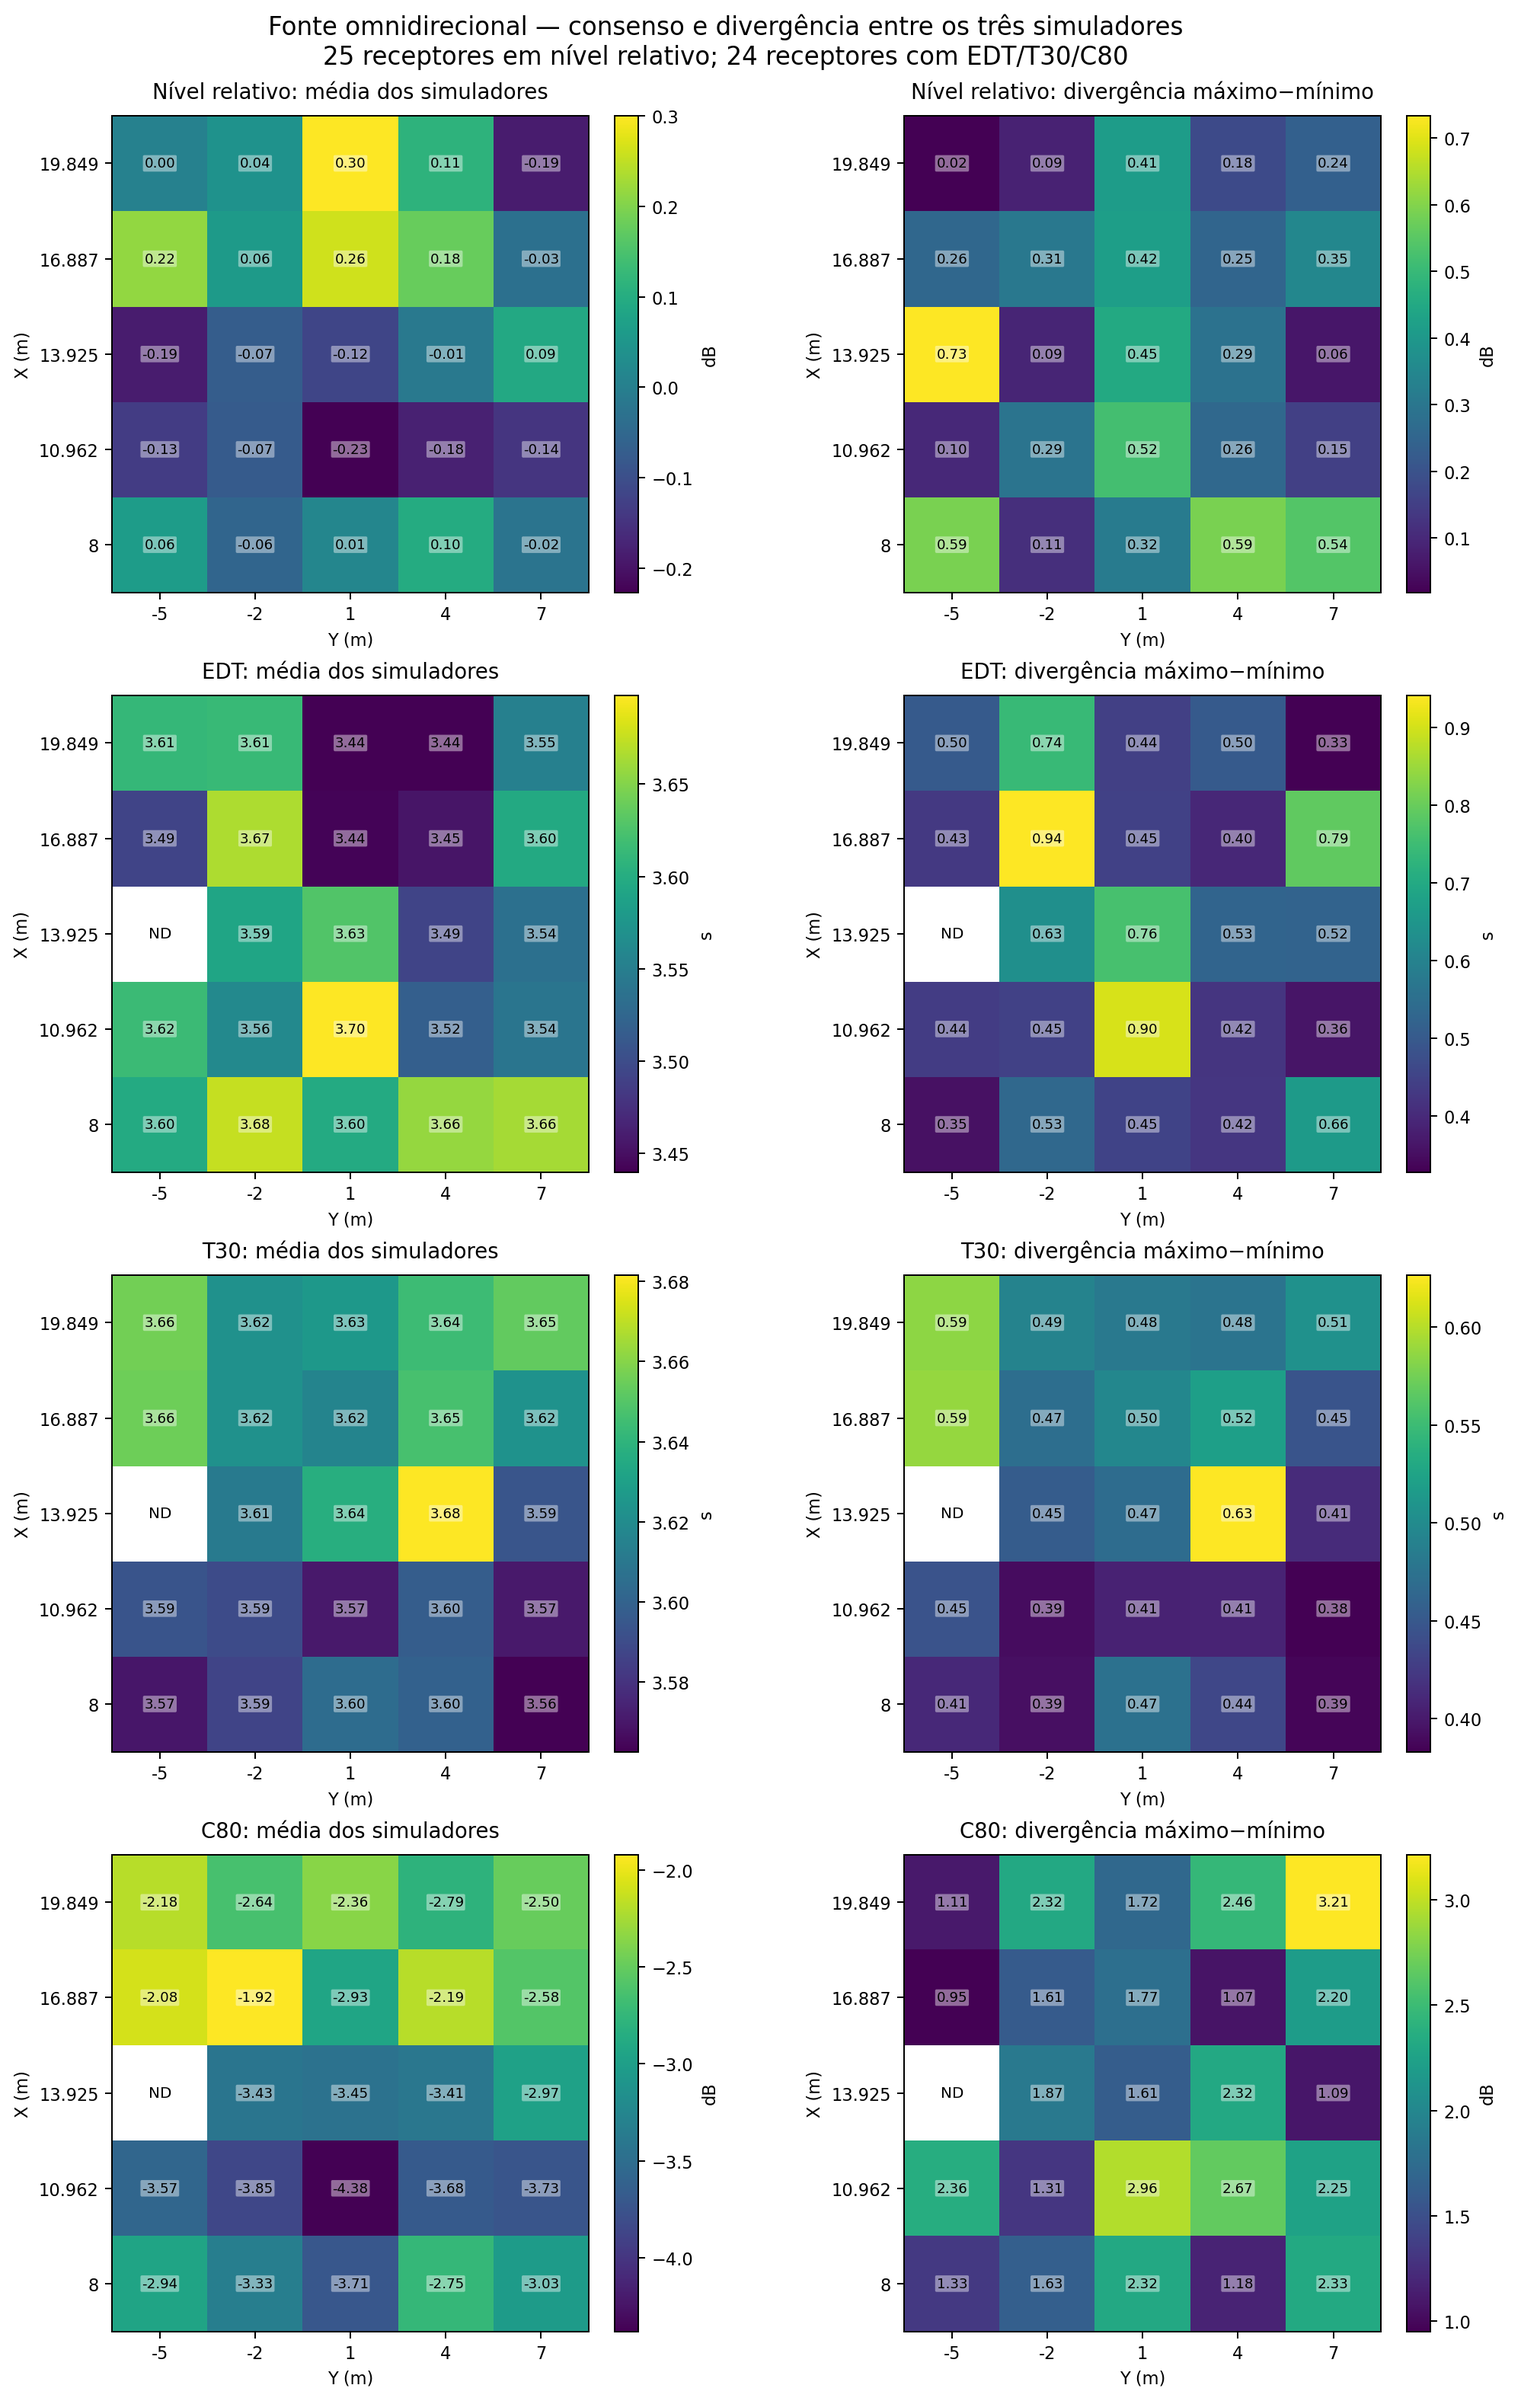
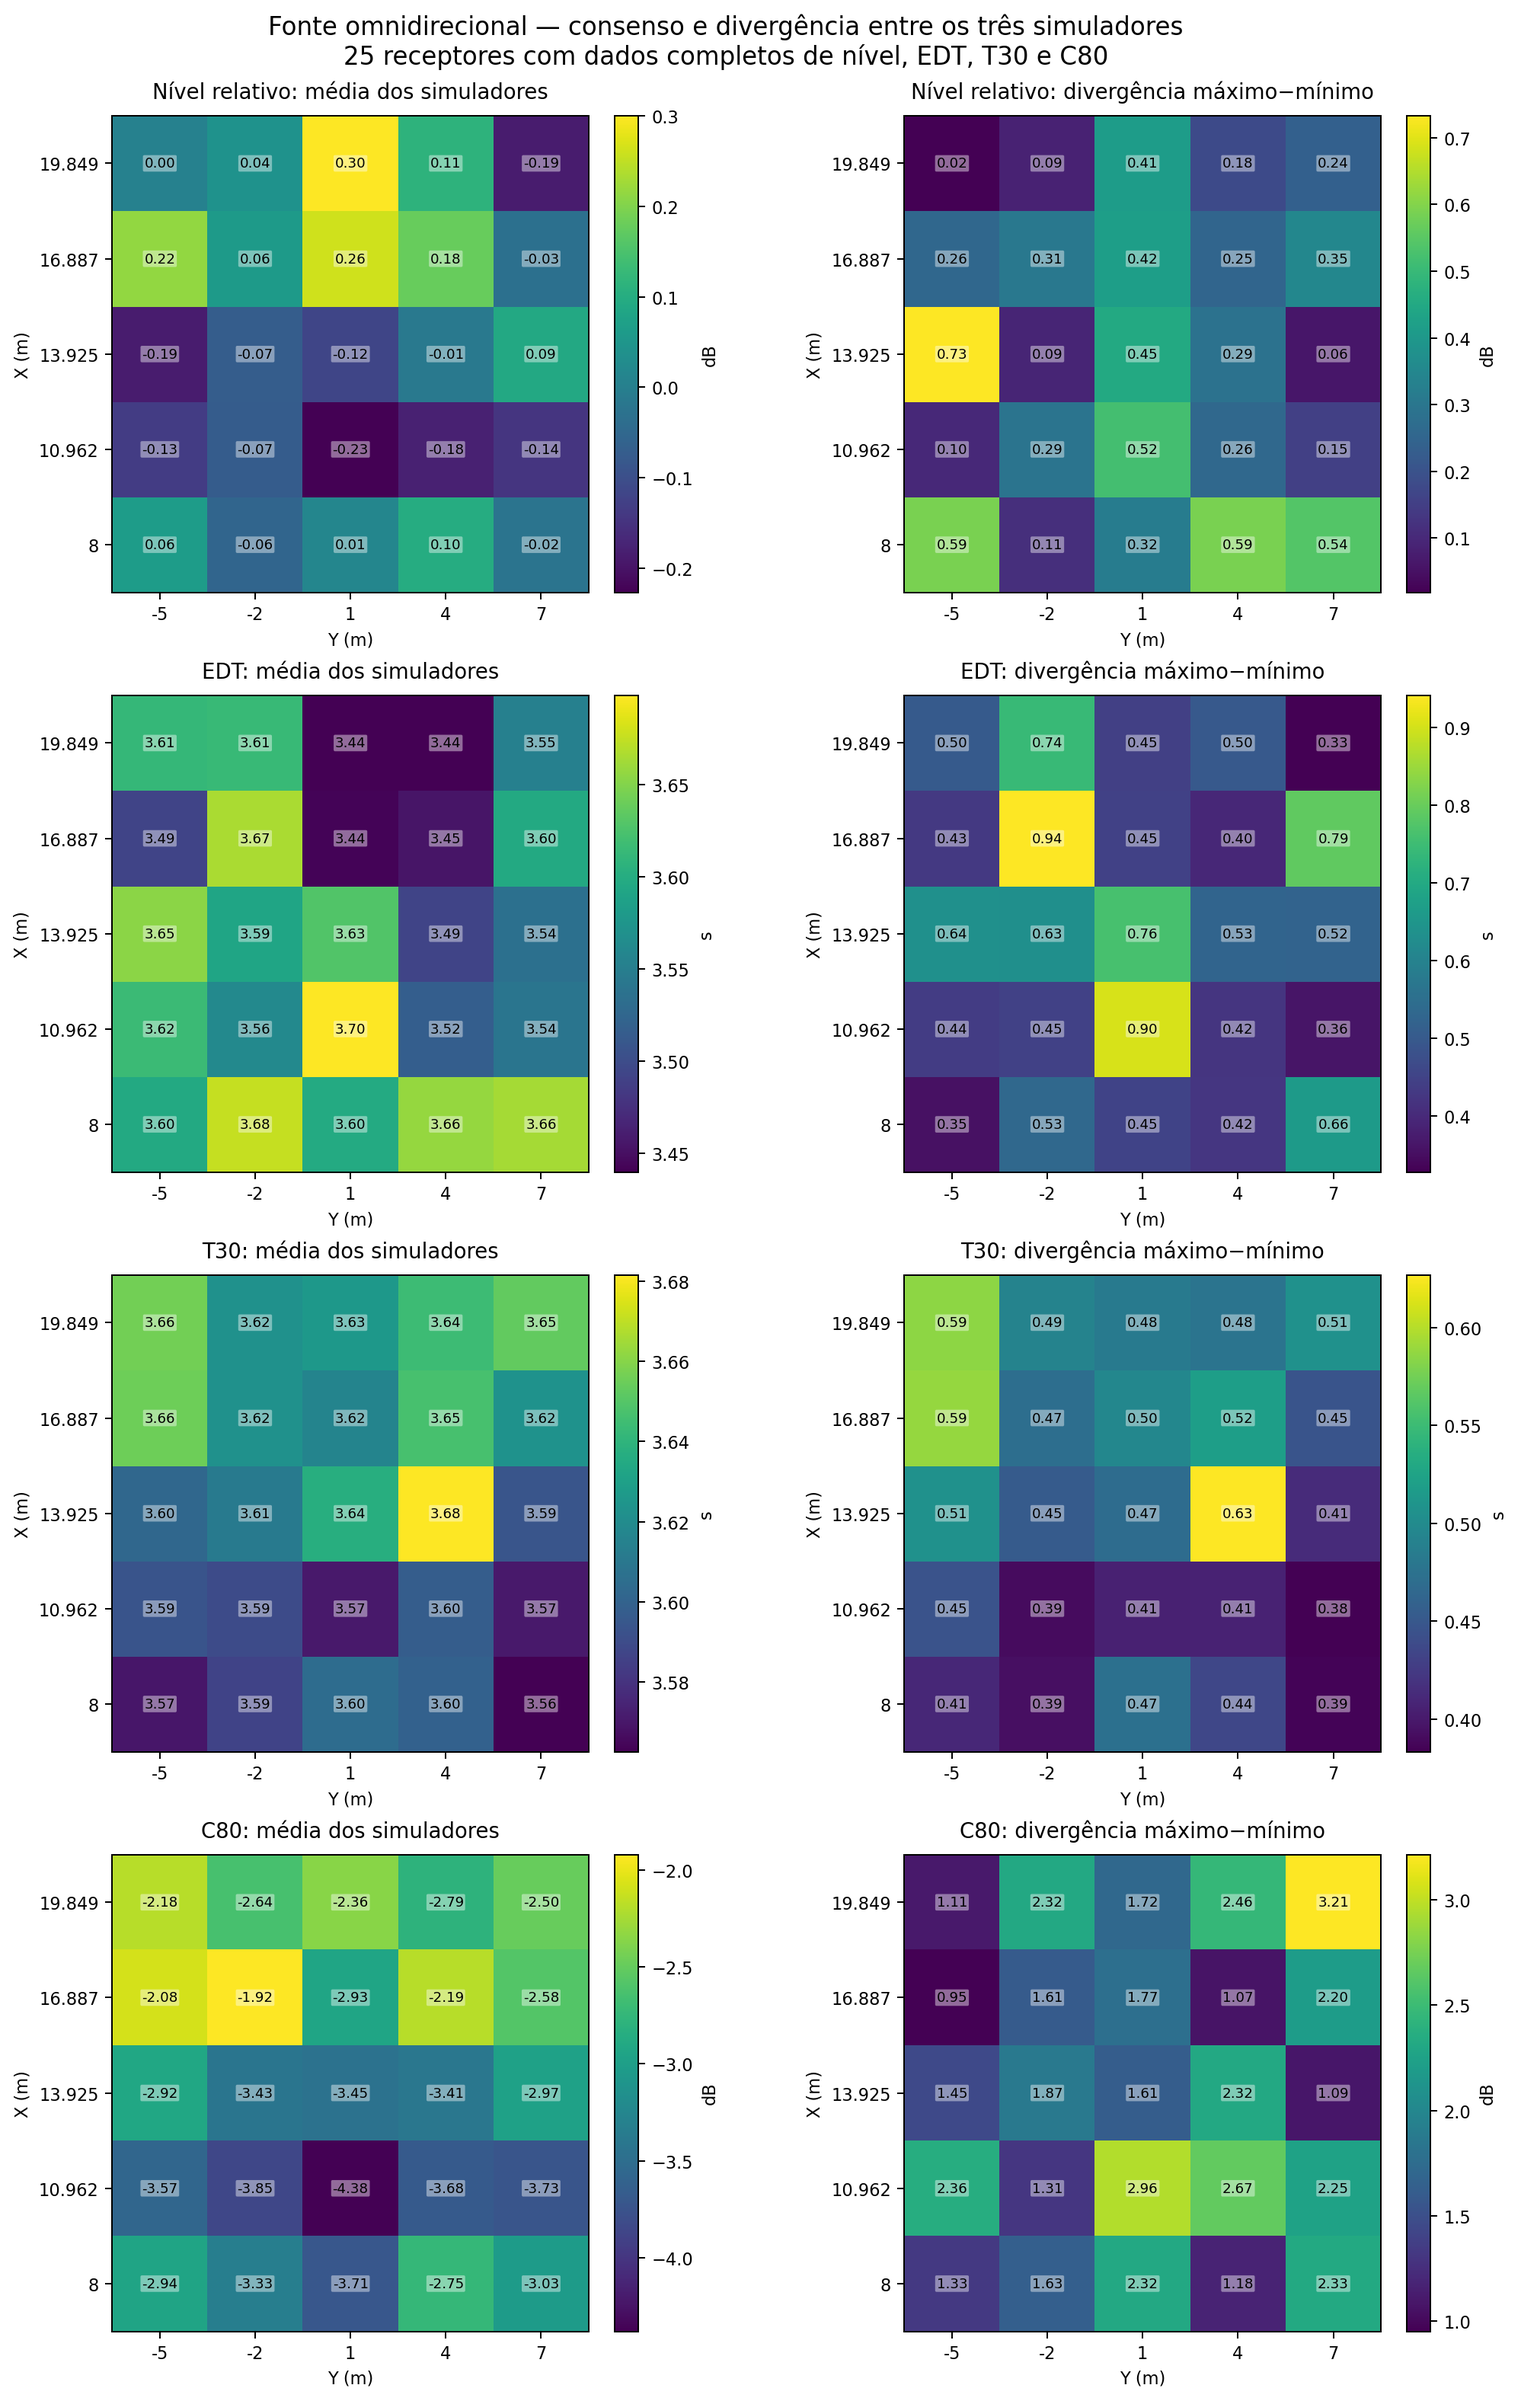
Add files via upload

diff --git a/5th-semana/relatorio_comparativo_odeon_isimpa_pyroom.md b/5th-semana/relatorio_comparativo_odeon_isimpa_pyroom.md
@@ -2,10 +2,10 @@
 
 **Comparação ODEON 19.12 × I-Simpa 1.3.4 (SPPS) × Pyroomacoustics**  
 **Cenários:** fonte omnidirecional e Bosch LA1-UW24.CF2 (0°, −8°, −16°)  
-**Data de consolidação:** 16 de outubro de 2026  
+**Data de consolidação:** 16 de outubro de 2026 — revisão com o ZIP I-Simpa `2026-10-16_21h04m27s.zip`  
 **Natureza:** análise numérica comparativa entre simuladores, sem validação experimental contra medições físicas.
 
-> **Resumo executivo.** No cenário omnidirecional, os três métodos apresentam divergência média de **0,305 dB** nos perfis de nível relativo (25 receptores), **0,541 s** em EDT, **0,465 s** em T30 e **1,902 dB** em C80 (24 receptores com parâmetros temporais completos). Com a fonte direcional Bosch CF2, os três simuladores indicam a **melhor média espacial de C80 em −16°**, apesar das diferenças absolutas. O melhor ângulo por receptor coincide nos três programas em **19/25** posições.
+> **Resumo executivo.** No cenário omnidirecional, os três métodos apresentam divergência média de **0,305 dB** nos perfis de nível relativo (25 receptores), **0,545 s** em EDT, **0,467 s** em T30 e **1,884 dB** em C80 (25 receptores com parâmetros temporais completos). Com a fonte direcional Bosch CF2, os três simuladores indicam a **melhor média espacial de C80 em −16°**, apesar das diferenças absolutas. O melhor ângulo por receptor coincide nos três programas em **19/25** posições.
 
 ## 1. Objetivos e questões de pesquisa
 
@@ -60,44 +60,52 @@ RMSE A−B = raiz quadrada da média de [M(A,r) − M(B,r)]²
 
 ## 4. Resultados — fonte omnidirecional
 
-Os 25 receptores têm dados de nível, porém **R11 não possui os parâmetros temporais completos no arquivo I-Simpa**. As estatísticas e os mapas simultâneos de EDT, T30 e C80 usam **24 receptores válidos**. A posição ausente está indicada como `ND` nos gráficos. Não foram interpolados valores.
+**Atualização do conjunto OMNI.** O novo ZIP `2026-10-16_21h04m27s.zip` inclui os arquivos `Acoustic parameters.gabe` e `Schroeder curves.gabe` de **R11**, ausentes da exportação anterior. A geometria (`mesh.cbin`) é idêntica e os parâmetros numéricos dos outros 24 receptores não mudaram. Agora são **25/25 receptores com dados válidos** de SPL, EDT, T30, C80, C50, D50 e Ts no I-Simpa. As estatísticas e os mapas foram recalculados com os 25 pontos, sem qualquer interpolação.
+
+| Receptor recuperado | SPL (dB) | EDT (s) | T30 (s) | C80 (dB) | C50 (dB) | Ts (ms) |
+| --- | ---: | ---: | ---: | ---: | ---: | ---: |
+| R11 — (13,925; −5,000; 2,468) m | 55,289 | 3,661 | 3,740 | −3,101 | −5,887 | 274,63 |
 
 ### 4.1. Médias dos três simuladores e faixa de divergência
 
 | Parâmetro | N | ODEON | I-Simpa | Pyroom | Divergência média |
 | --- | --- | --- | --- | --- | --- |
-| Nível relativo (dB) | 25 | -0,000 | 0,000 | 0,000 | 0,305 |
-| EDT (s) | 24 | 3,265 | 3,662 | 3,784 | 0,541 |
-| T30 (s) | 24 | 3,319 | 3,755 | 3,769 | 0,465 |
-| C80 (dB) | 24 | -2,050 | -3,266 | -3,732 | 1,902 |
+| Nível relativo (dB) | 25 | -0,000 | -0,000 | 0,000 | 0,305 |
+| EDT (s) | 25 | 3,267 | 3,661 | 3,791 | 0,545 |
+| T30 (s) | 25 | 3,317 | 3,754 | 3,770 | 0,467 |
+| C80 (dB) | 25 | -2,052 | -3,260 | -3,725 | 1,884 |
 
 
 A última coluna é a média espacial de `máximo−mínimo`, e **não** o máximo dos três valores médios da tabela. O nível é **relativo** e está centrado individualmente; consequentemente, as médias ficam perto de zero por construção.
 
 ![Fonte omnidirecional: consenso e divergência espacial](figuras/03_omni_consenso_e_divergencia.png)
 
-*Figura 2 — Para cada métrica, à esquerda a média dos valores dos três simuladores e à direita a divergência máxima entre eles. `ND` identifica receptor sem três observações válidas.*
+*Figura 2 — Para cada métrica, à esquerda a média dos valores dos três simuladores e à direita a divergência máxima entre eles. Todos os 25 receptores possuem observações válidas nos três simuladores.*
 
 ### 4.2. Comparações pareadas
 
 | Parâmetro | Par | N | Viés A−B | RMSE |
 | --- | --- | --- | --- | --- |
-| EDT | ODEON − ISimpa | 24 | -0,397 | 0,401 |
+| EDT | ODEON − ISimpa | 25 | -0,394 | 0,398 |
 | EDT | ODEON − Pyroom | 25 | -0,524 | 0,556 |
-| EDT | ISimpa − Pyroom | 24 | -0,122 | 0,222 |
-| T30 | ODEON − ISimpa | 24 | -0,436 | 0,437 |
+| EDT | ISimpa − Pyroom | 25 | -0,130 | 0,226 |
+| T30 | ODEON − ISimpa | 25 | -0,437 | 0,438 |
 | T30 | ODEON − Pyroom | 25 | -0,452 | 0,459 |
-| T30 | ISimpa − Pyroom | 24 | -0,014 | 0,063 |
-| C80 | ODEON − ISimpa | 24 | 1,216 | 1,256 |
+| T30 | ISimpa − Pyroom | 25 | -0,016 | 0,062 |
+| C80 | ODEON − ISimpa | 25 | 1,208 | 1,247 |
 | C80 | ODEON − Pyroom | 25 | 1,673 | 1,899 |
-| C80 | ISimpa − Pyroom | 24 | 0,466 | 1,039 |
+| C80 | ISimpa − Pyroom | 25 | 0,465 | 1,022 |
 
 
 ![Fonte OMNI: diferenças pareadas de C80](figuras/07_omni_c80_diferencas_pareadas.png)
 
-*Figura 3 — Diferenças de C80 com sinal. Positivo significa que o primeiro simulador estima maior clareza. Comparações envolvendo I-Simpa omitem R11.*
+*Figura 3 — Diferenças de C80 com sinal. Positivo significa que o primeiro simulador estima maior clareza. A comparação inclui agora R11 e os outros 24 receptores.*
 
 **Leitura:** diferenças temporais relativamente estáveis e o desvio de C80 evidenciam ausência de equivalência perfeita entre os motores. No caso OMNI a diferença média dos perfis de nível relativo é pequena, mas isso **não prova concordância de SPL absoluto**, dada a centralização e o uso do G em ODEON.
+
+### 4.3. Controle de alteração no conjunto OMNI
+
+A nova exportação conserva os parâmetros principais (`computation_method=1`, 500.000 partículas, semente 123, 8 s de simulação, receptor com raio de 0,31 m, absorção atmosférica desativada) e a mesma malha. Os arquivos acústicos dos outros 24 receptores reproduzem os mesmos valores da versão anterior. Assim, qualquer variação entre as médias OMNI publicadas nesta revisão e na versão anterior decorre **exclusivamente da inclusão de R11**, não de um novo cenário geométrico ou de uma nova amostra estocástica identificada.
 
 ## 5. Resultados — alto-falante Bosch LA1-UW24.CF2
 
@@ -207,19 +215,21 @@ No I-Simpa, **−8° maximiza levemente o SPL médio**, enquanto **−16° apres
 
 O pacote anexado inclui este relatório e os gráficos em `figuras/` (imagens PNG com caminhos relativos), além das tabelas recalculadas em `dados/`:
 
-- `dados/omni_25_receptores_analise.csv` — dados OMNI com média dos três, divergência, diferenças com sinal e R11 ausente para métricas temporais.
+- `dados/omni_25_receptores_analise.csv` — dados OMNI com média dos três, divergência, diferenças com sinal e R11 recuperado e incluído em todas as métricas temporais.
 - `dados/cf2_75_receptores_analise.csv` — 25 receptores × 3 orientações, todas as métricas e diferenças.
-- `dados/resumo_omni.csv` e `dados/resumo_cf2.csv` — médias e divergências por caso.
+- `dados/resumo_omni.csv` e `dados/resumo_cf2.csv` — médias e divergências por caso; a tabela OMNI foi recalculada com N=25.
+- `dados/omni_25_receptores_atualizado_bruto.csv` — valores OMNI atualizados, antes dos campos derivados de divergência.
 - `dados/comparacoes_pareadas_rmse.csv` — viés, MAE, RMSE e número de pares efetivamente comparados.
 
-As fontes auditadas incluem as tabelas consolidadas previamente geradas, as exportações textuais ODEON 0°, −8°, −16°, ZIPs I-Simpa de 19h42, 20h01 e 20h09 e o conjunto de resultados Pyroomacoustics com 50.000 raios. A figura 1 é uma visualização derivada do modelo reconstruído; as demais são gráficos calculados das tabelas de resultados, e não ilustrações hipotéticas.
+As fontes auditadas incluem as tabelas consolidadas previamente geradas, as exportações textuais ODEON 0°, −8°, −16°, o ZIP OMNI atualizado I-Simpa de 21h04, os ZIPs CF2 I-Simpa de 19h42, 20h01 e 20h09 e o conjunto de resultados Pyroomacoustics com 50.000 raios. A figura 1 é uma visualização derivada do modelo reconstruído; as demais são gráficos calculados das tabelas de resultados, e não ilustrações hipotéticas.
 
 **Fontes de dados locais relevantes:**
 
 ```text
-Comparacion_25_Receptores_ODEON_ISimpa_Pyroom.csv
+OMNI_25_RECEPTORES_ATUALIZADO_20261016.csv
 Comparacion_CF2_tres_simuladores_75_receptores.csv
-2026-10-16_19h42m00s.zip   (I-Simpa 0°)
+2026-10-16_21h04m27s.zip   (I-Simpa OMNI atualizado, 25/25)
+2026-10-16_19h42m00s.zip   (I-Simpa CF2 0°)
 2026-10-16_20h01m09s.zip   (I-Simpa −8°)
 2026-10-16_20h09m36s.zip   (I-Simpa −16°)
 PRA_CF2_75_receptores_50000.csv
